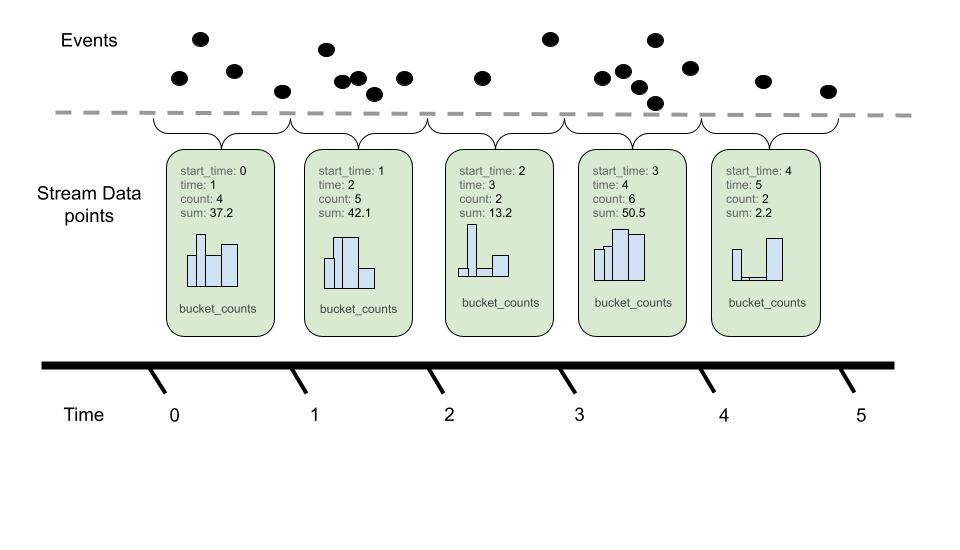
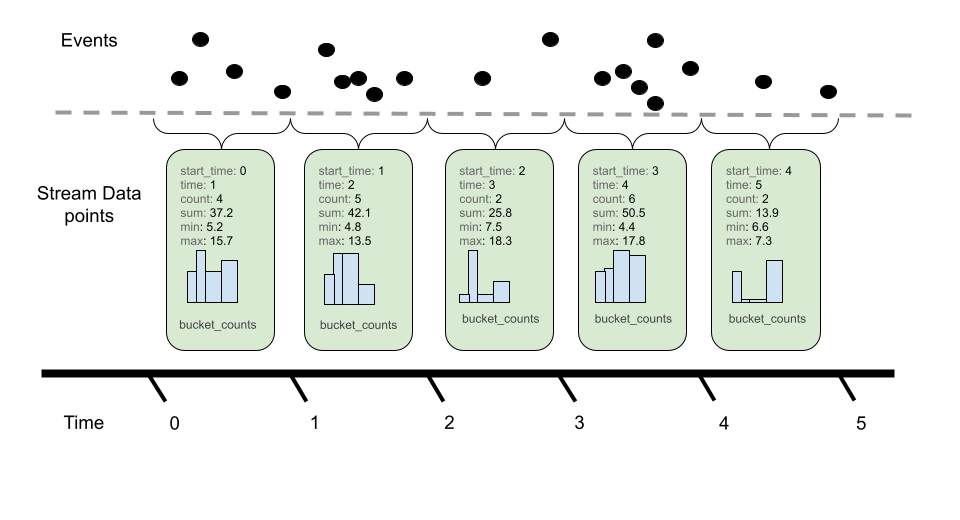
Add optional min and max fields to histogram data model. (#1915)
* Add optional min and max fields to histogram data model.

* Fix lint error

* Update histogram min and max definition per discussion

* Format changelog to comply with line length recommendations

* Update delta histogram image with min and max

* Fix lint error

* Revert "Fix lint error"

This reverts commit 90f1c724

* Removing trailing space on line

diff --git a/specification/metrics/datamodel.md b/specification/metrics/datamodel.md
@@ -386,6 +386,8 @@ Histograms consist of the following:
       (00:00:00 UTC on 1 January 1970).
   - A count (`count`) of the total population of points in the histogram.
   - A sum (`sum`) of all the values in the histogram.
+  - (optional) The min (`min`) of all values in the histogram.
+  - (optional) The max (`max`) of all values in the histogram.
   - (optional) A series of buckets with:
     - Explicit boundary values.  These values denote the lower and upper bounds
       for buckets and whether not a given observation would be recorded in this
@@ -397,6 +399,13 @@ Like Sums, Histograms also define an aggregation temporality.  The picture above
 denotes Delta temporality where accumulated event counts are reset to zero after reporting
 and a new aggregation occurs. Cumulative, on the other hand, continues to
 aggregate events, resetting with the use of a new start time.
+
+The aggregation temporality also has implications on the min and max fields. Min
+and max are more useful for Delta temporality, since the values represented by
+Cumulative min and max will stabilize as more events are recorded. Additionally,
+it is possible to convert min and max from Delta to Cumulative, but not from
+Cumulative to Delta. When converting from Cumulative to Delta, min and max can
+be dropped, or captured in an alternative representation such as a gauge.
 
 Bucket counts are optional.  A Histogram without buckets conveys a
 population in terms of only the sum and count, and may be interpreted

diff --git a/CHANGELOG.md b/CHANGELOG.md
@@ -13,6 +13,9 @@ release.
 
 ### Metrics
 
+- Add optional min / max fields to histogram data model.
+  ([#1915](https://github.com/open-telemetry/opentelemetry-specification/pull/1915))
+
 ### Logs
 
 ### Resource
